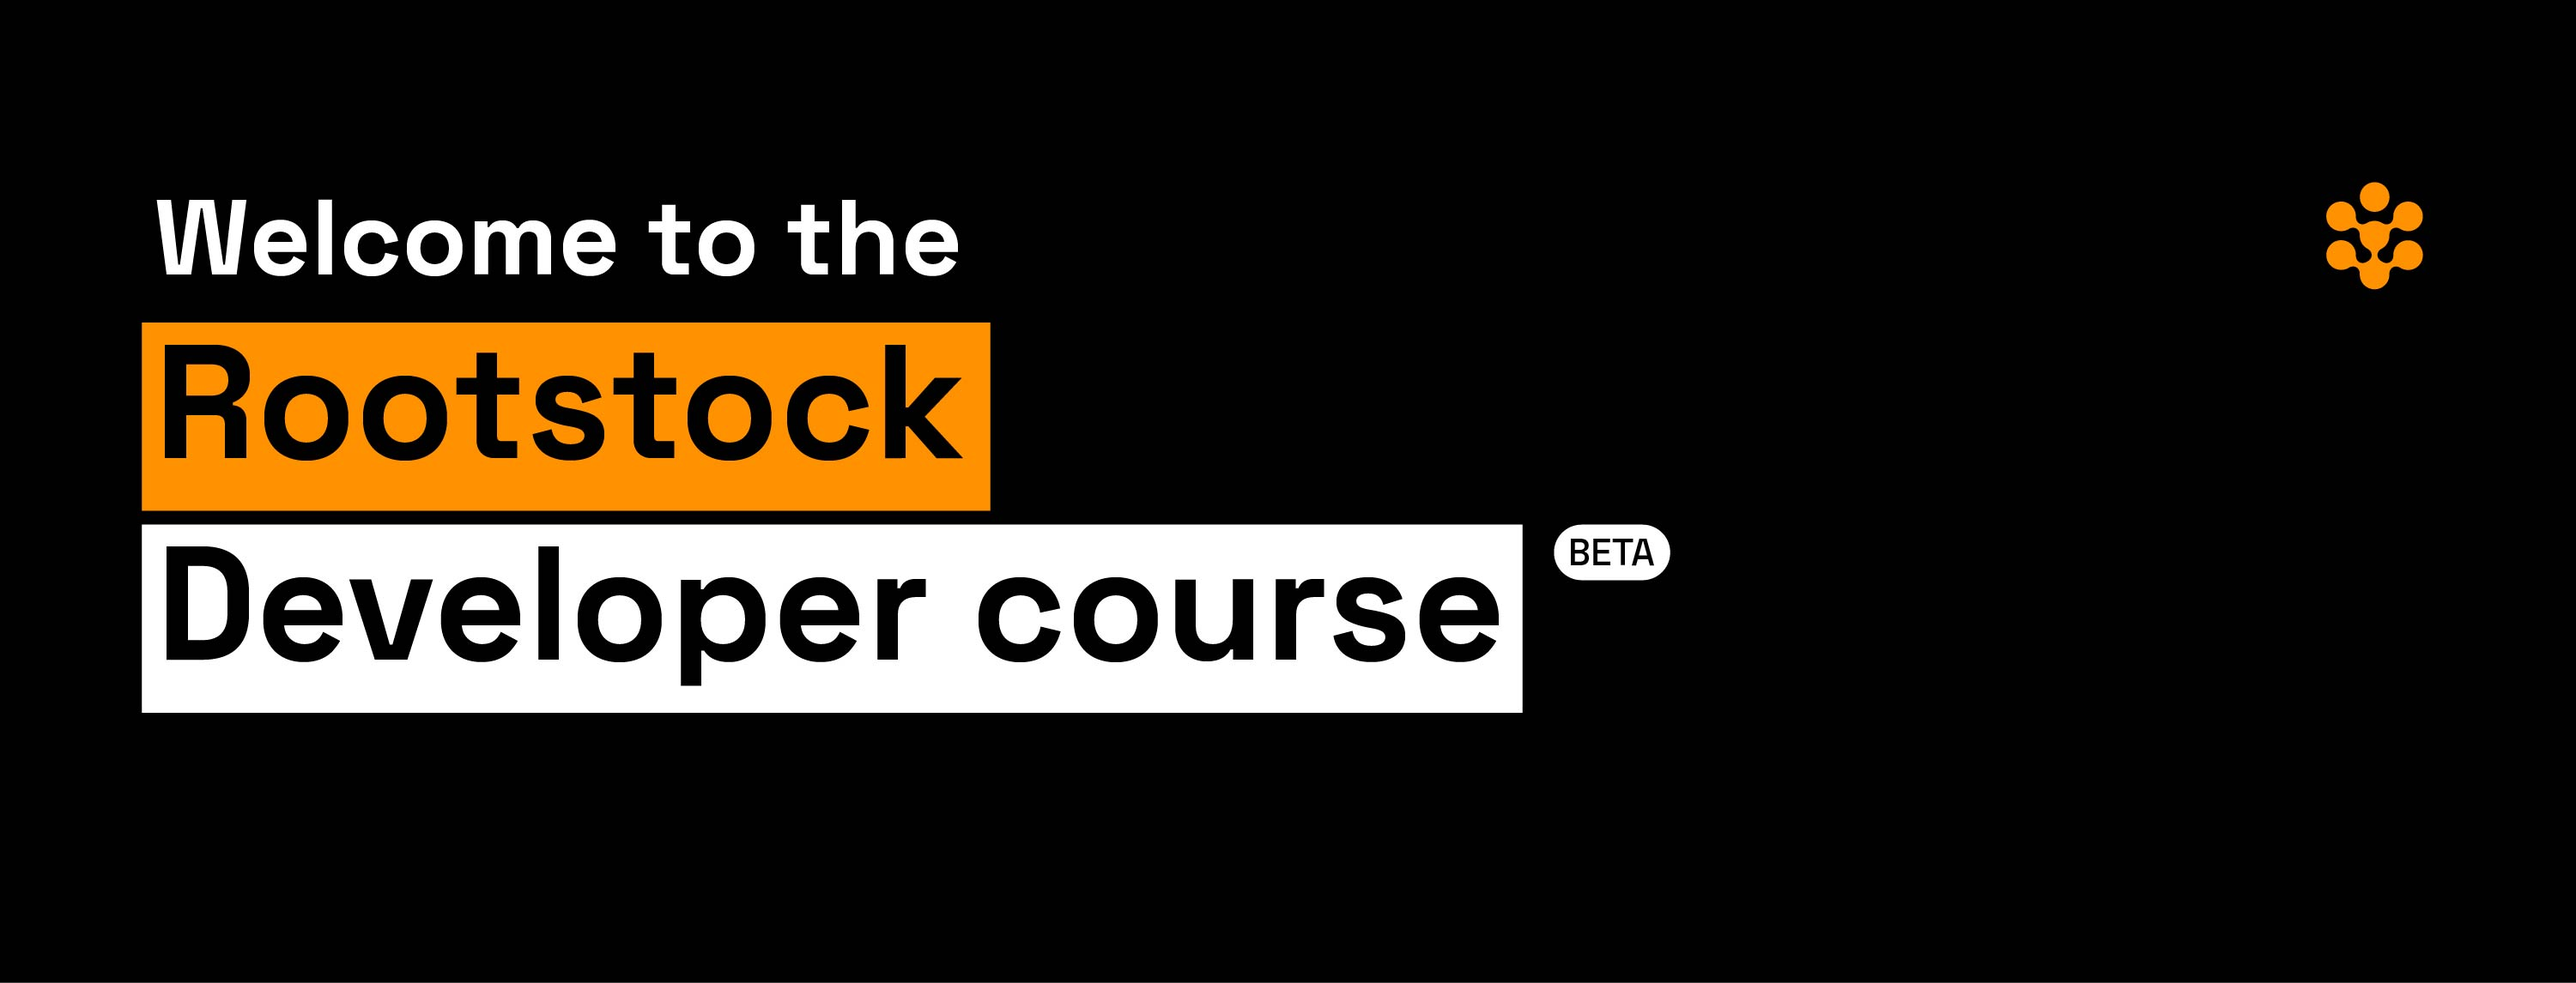
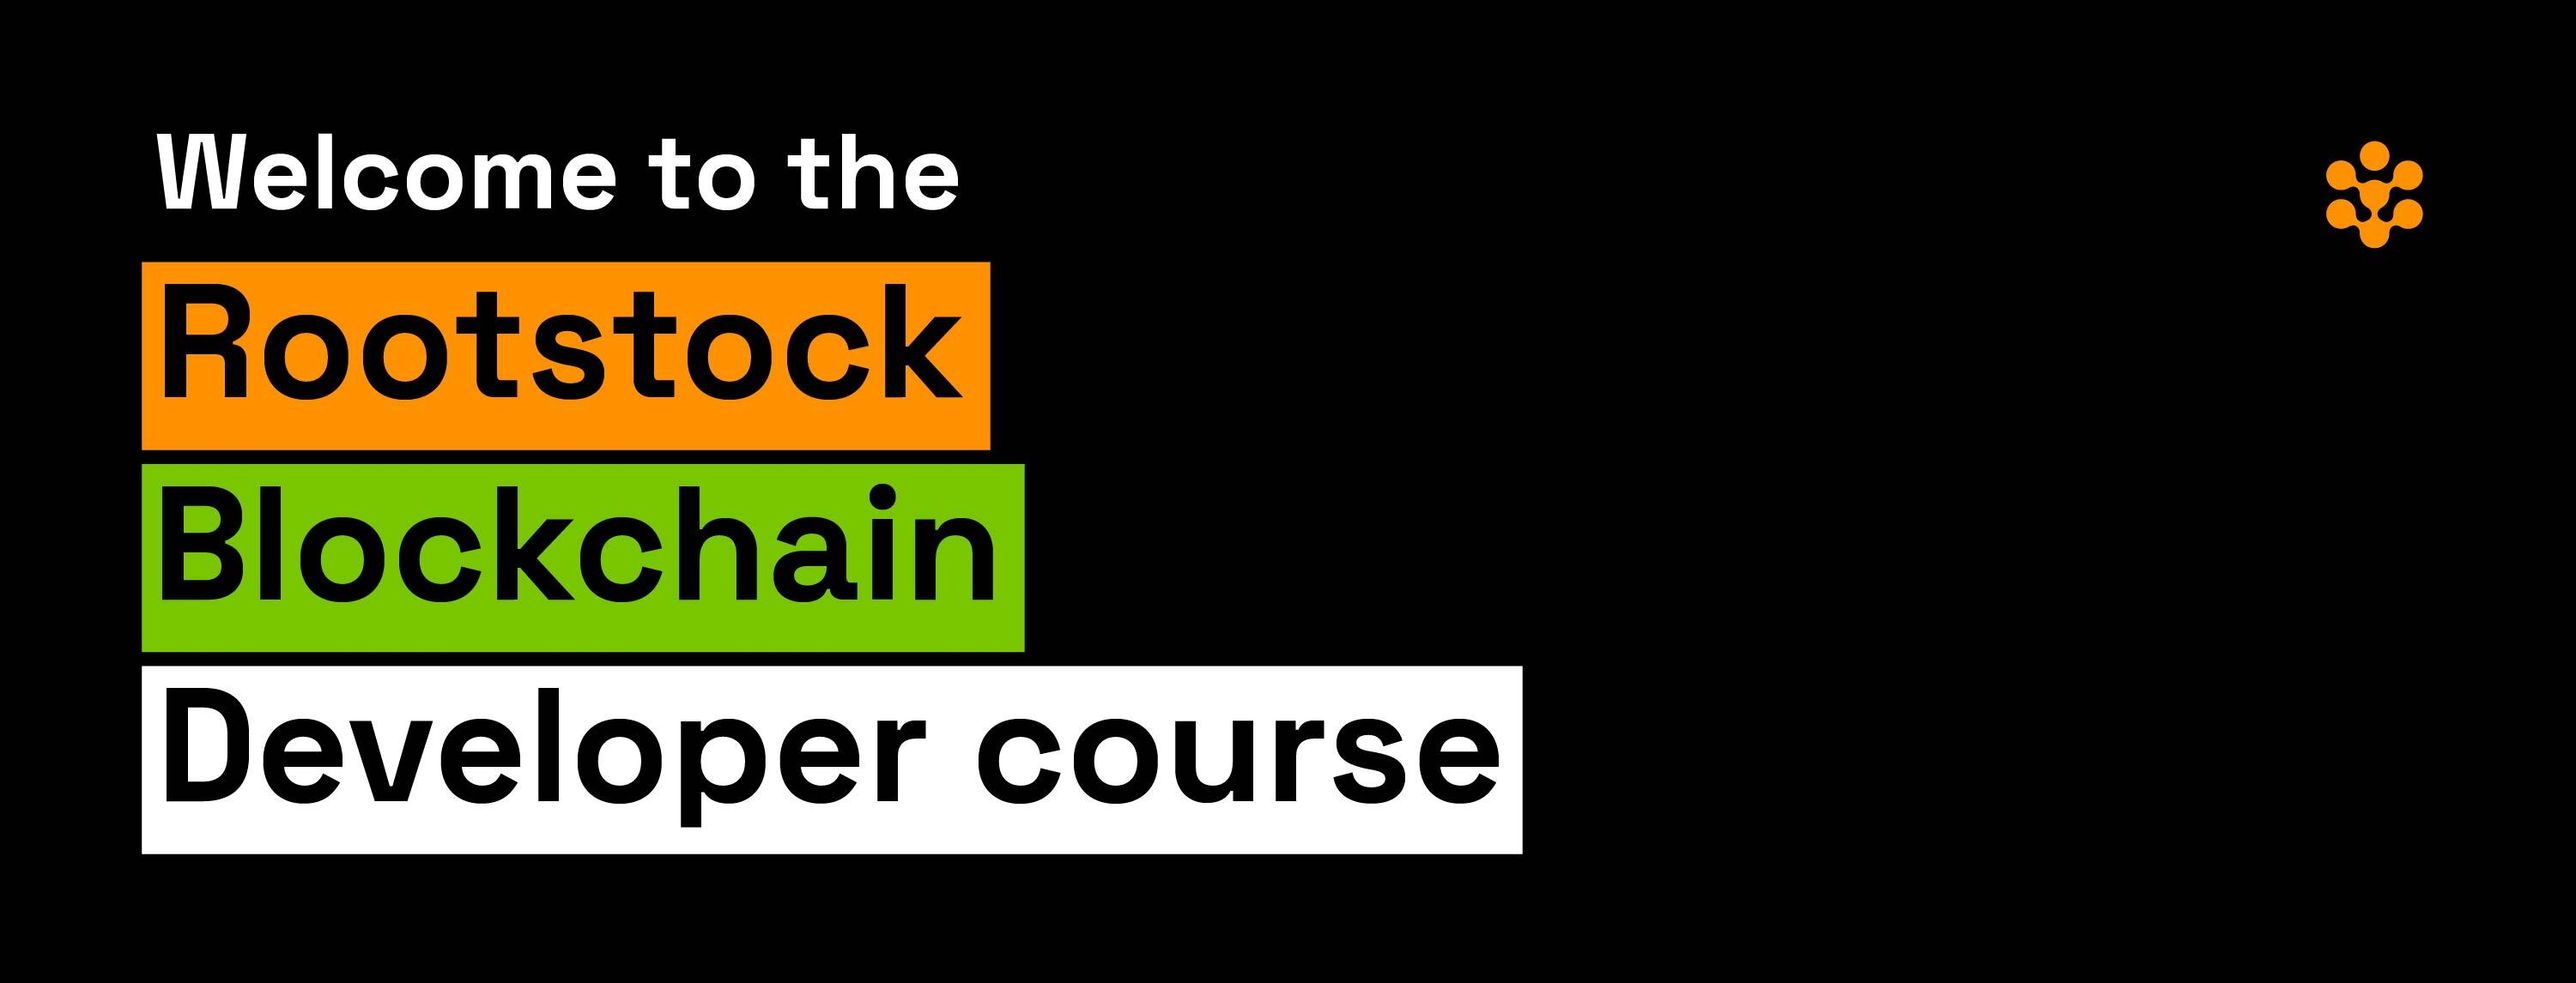
ch: update bdc landing page

Changed region(s): [[0.031, 0.1222, 0.6508, 0.8857], [0.8987, 0.1527, 0.9607, 0.3054]]

diff --git a/content/rsk-devportal/courses/blockchain-developer.md b/content/rsk-devportal/courses/blockchain-developer.md
@@ -15,7 +15,7 @@ This course aims to teach you how to develop on the Rootstock blockchain, with a
 
 In this course, you will learn how to write, test, compile, deploy, secure, and verify smart contracts using Solidity.
 
-... and it is completely free!
+... and it is completely FREE!
 
 <div class="btn-container">
   <span></span>
@@ -46,66 +46,24 @@ Each module has the following types of material:
 
 ### Modules
 
-<div class="owl-carousel owl-theme">
-   <div class="item">
-      <a href="https://rsk.thinkific.com/courses/blockchain-developer/" target="blank">
-      <img src="/assets/img/courses/modules/modules-course-02.jpg" alt="moduleTwo">
-      <a class="module-name" href="https://rsk.thinkific.com/courses/blockchain-developer/" target="blank">Blockchain Nodes</a>
-      </a>
-   </div>
-   <div class="item">
-      <a href="https://rsk.thinkific.com/courses/blockchain-developer/" target="blank">
-      <img src="/assets/img/courses/modules/modules-course-03.jpg" alt="moduleThree">
-      <a class="module-name" href="https://rsk.thinkific.com/courses/blockchain-developer/" target="blank">Write Smart Contracts</a>
-      </a>
-   </div>
-   <div class="item">
-      <a href="https://rsk.thinkific.com/courses/blockchain-developer/" target="blank">
-      <img src="/assets/img/courses/modules/modules-course-04.jpg" alt="moduleFour">
-      <a class="module-name" href="https://rsk.thinkific.com/courses/blockchain-developer/" target="blank">Test Smart Contracts</a>
-      </a>
-   </div>
-   <div class="item">
-      <a href="https://rsk.thinkific.com/courses/blockchain-developer/" target="blank">
-      <img src="/assets/img/courses/modules/modules-course-05.jpg" alt="moduleFive">
-      <a class="module-name" href="https://rsk.thinkific.com/courses/blockchain-developer/" target="blank">Secure Smart Contracts</a>
-      </a>
-   </div>
-   <div class="item">
-      <a href="https://rsk.thinkific.com/courses/blockchain-developer/" target="blank">
-      <img src="/assets/img/courses/modules/modules-course-06.jpg" alt="moduleSix">
-      <a class="module-name" href="https://rsk.thinkific.com/courses/blockchain-developer/" target="blank">Deploy Smart Contracts</a>
-      </a>
-   </div>
-   <div class="item">
-      <a href="https://rsk.thinkific.com/courses/blockchain-developer/" target="blank">
-      <img src="/assets/img/courses/modules/modules-course-07.jpg" alt="moduleSeven">
-      <a class="module-name" href="https://rsk.thinkific.com/courses/blockchain-developer/" target="blank">Verify Smart Contracts</a>
-      </a>
-   </div>
-   <div class="item">
-      <a href="https://rsk.thinkific.com/courses/blockchain-developer/" target="blank">
-      <img src="/assets/img/courses/modules/modules-course-08.jpg" alt="moduleEight">
-      <a class="module-name" href="https://rsk.thinkific.com/courses/blockchain-developer/" target="blank">Course Completion</a>
-      </a>
-   </div>
-   <div class="item">
-      <a href="https://rsk.thinkific.com/courses/blockchain-developer/" target="blank">
-      <img src="/assets/img/courses/modules/modules-course-01.jpg" alt="moduleOne">
-      <a class="module-name" href="https://rsk.thinkific.com/courses/blockchain-developer/" target="blank">Course Introduction</a>
-      </a>
-   </div>
-</div>
+* M01: Course Introduction
+* M02: Blockchain Nodes
+* M03: Write Smart Contracts
+* M04: Test Smart Contracts
+* M05: Secure Smart Contracts
+* M06: Deploy Smart Contracts
+* M07: Verify Smart Contracts
+* M08: Course Completion
 
 ## Benefits of taking the Blockchain Developer Course
-
 * Level up your knowledge about smart contracts
 * Earn a certificate upon completion
 * Qualify to become a Developer Ambassador (and earn rewards!)
 
-<a href="https://rsk.thinkific.com/courses/blockchain-developer/" target="_blank">
-  <button class="orange-button">Become a Blockchain Developer</button>
-</a>
+<div class="btn-container">
+  <span></span>
+    <a class="green" href="https://rsk.thinkific.com/courses/blockchain-developer/">Become a Blockchain Developer</a>
+</div>
 
 ## FAQs
 
@@ -119,15 +77,11 @@ Rootstock Blockchain Developer Course.
   > and neither does it aim to teach your about this topic.
 - Will I get a Course completion certificate if I complete the course?
   > A:
-  > This is not the complete course yet - it is still in beta at the moment -
-  > so there isn't a certificate at the end unfortunately!
-  > When the course is finalised we will enable certificates,
-  > and your progress during the beta will count towards completion,
-  > and therefore the certificate as well.
+  > Yes, you get a certificate at the end of the course.
 - Where can I go for help?
   > A:
   > Go to the [Rootstock community discord](https://rootstock.io/discord),
-  > and ask questions on the `#rsk-dev-course` channel.
+  > and ask questions on the `#support` forum.
 - Is there a time frame for completing the course?
   > A:
   > No, this course is entirely self paced,
